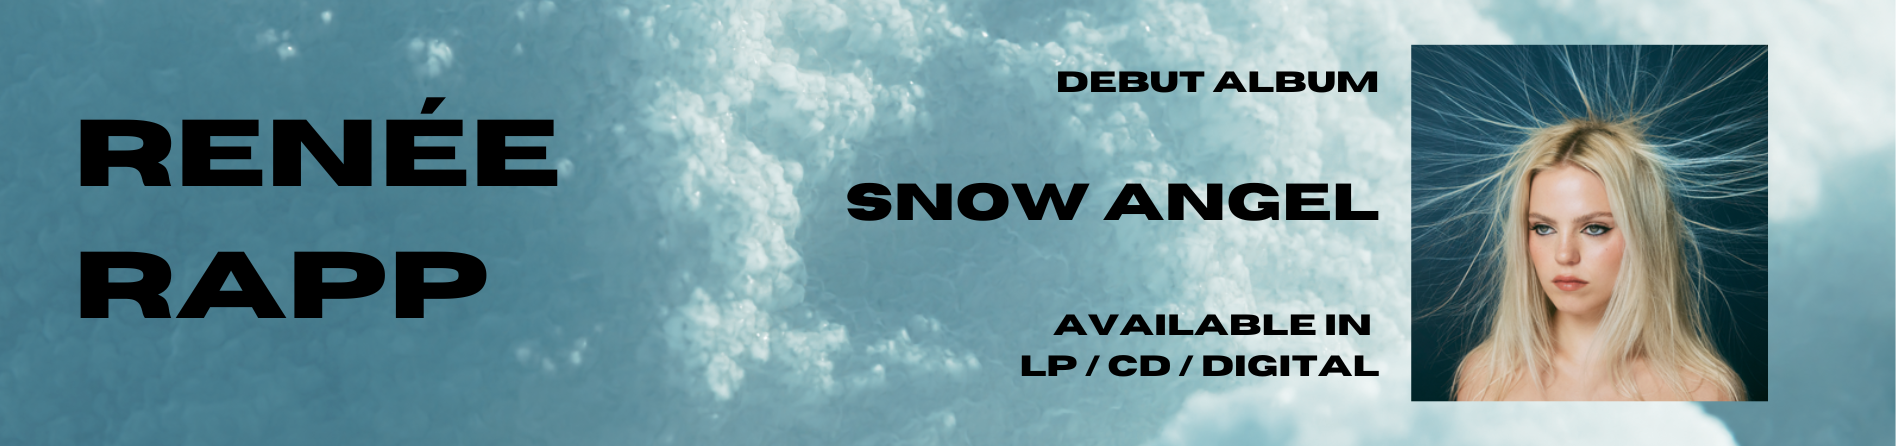
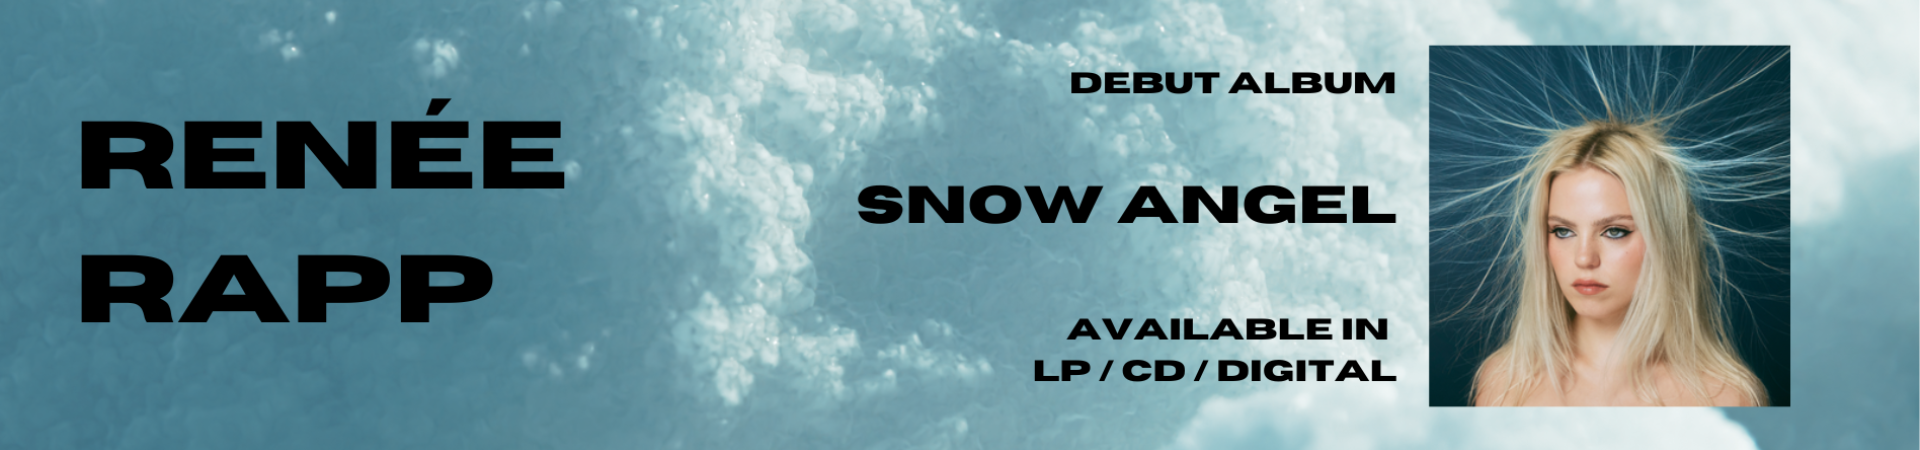
Added the music rotation section. Updated the images, added a title for the section, styled to center images.

diff --git a/index.html b/index.html
@@ -53,12 +53,13 @@
         </button>
     </div>
 
-    <!-- ON ROTATION SLIDES -->
+    <!-- NEW MUSIC SLIDES -->
     <div class="image-carousel">
         <div class="slides">
-            <button class="slide-buttons" id="reneerapp-slide">
-                <img src="Images/reneerapp-slide.png" class="slide-images" id="reneerapp-image">
+            <button class="slide-buttons" id="slide1">
+                <img src="Images/reneerapp-slide.png" class="slide-images">
             </button>
+            <!-- Add additional slides here -->
         </div>
         <div class="navigation">
             <span class="dot active"></span>
@@ -66,6 +67,24 @@
             <span class="dot"></span>
         </div>
     </div>
+
+    <!-- ON ROTATION IMAGES -->
+    <div class="rotation-title">THIS WEEK'S MUSIC ROTATION</div>
+    <div class="on-rotation">
+        <button class="album-buttons" id="album-button1">
+            <img src="Images/punisher-cover.jpg" class="rotation-images">
+        </button>
+        <button class="album-buttons" id="album-button2">
+            <img src="Images/immunity-cover.jpg" class="rotation-images">
+        </button>
+        <button class="album-buttons" id="album-button3">
+            <img src="Images/portals-cover.jpg" class="rotation-images">
+        </button>
+        <button class="album-buttons" id="album-button3">
+            <img src="Images/guts-cover.jpg" class="rotation-images">
+        </button>
+    </div>
+    
 
 </body>
 </html>

diff --git a/style.css b/style.css
@@ -1,5 +1,6 @@
 /* style.css */
-body{
+body,
+html{
     margin: 0;
     padding: 0;
     background-color: #f2f2e9;
@@ -7,6 +8,7 @@ body{
 }
 
 header{
+    margin: 0;
     background: #1e241e;
     display: flex;
     justify-content: space-between;
@@ -164,7 +166,7 @@ header{
 
 /**************** IMAGE CAROUSEL STYLING *****************/
 .slide-images{
-    width: 102%; /* 102% to account for the size of the image not being large enough */
+    width: 100%; /* 102% to account for the size of the image not being large enough */
     height: auto;
     display: block;
 }
@@ -198,4 +200,35 @@ header{
 
 .dot.active{
     background-color: #1e241e;
+}
+
+/* ON ROTATION IMAGES */
+.rotation-title{
+    margin-top: 3%;
+    text-align: center;
+    font-size: 24px;
+    font-family: Verdana, Geneva, Tahoma, sans-serif;
+}
+
+.on-rotation{
+    display: flex;
+    width: 100%;
+    height: auto; 
+    justify-content: center;
+    align-items: center;
+
+}
+
+.album-buttons{
+    border: none;
+    width: 20%;
+    padding: 0;
+    cursor: pointer;
+    margin: 40px;
+}
+
+.album-buttons img{
+    display: block;
+    width: 100%;
+    height: auto;
 }
